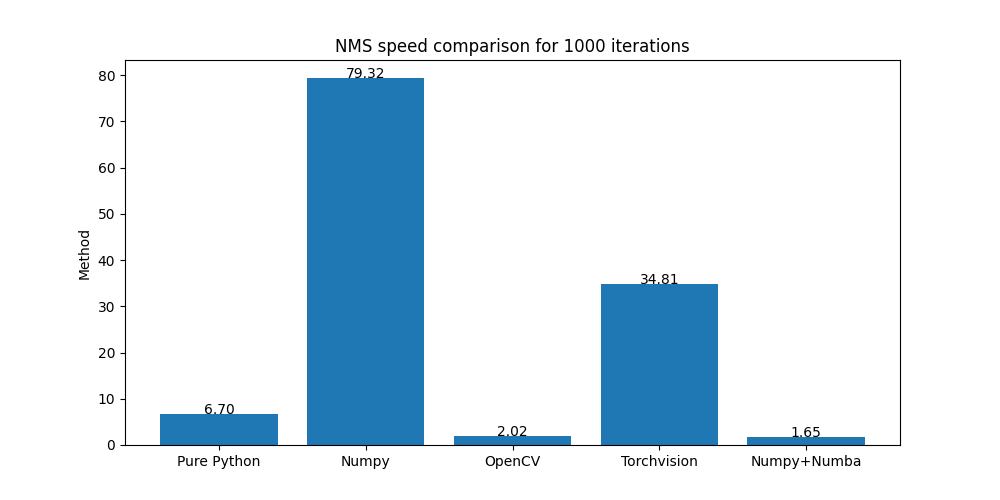
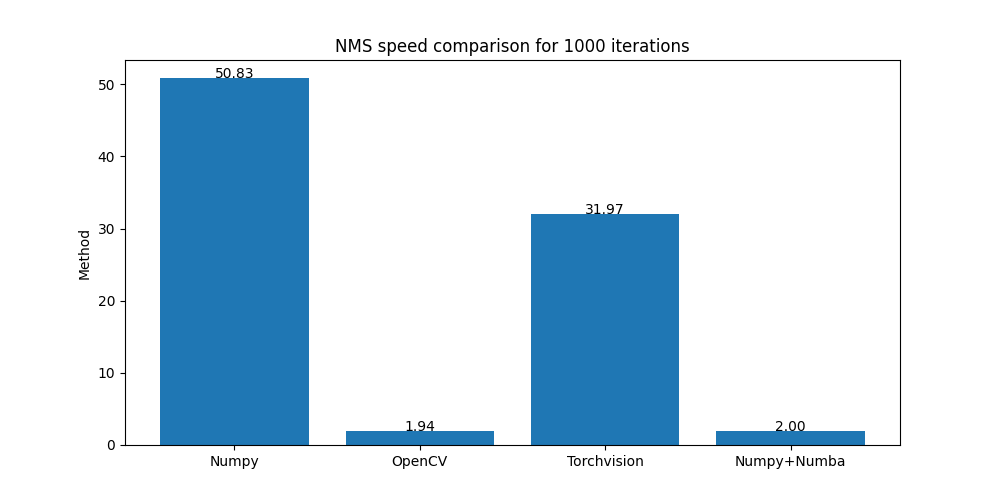
Add files via upload

diff --git a/NMS/nms_numpy.py b/NMS/nms_numpy.py
@@ -2,31 +2,35 @@ import time
 import numpy as np
 
 def nms(boxes, threshold):
-    if len(boxes) == 0:
-        return []
 
-    boxes = boxes[boxes[:, 4].argsort()[::-1]]
-    selected_boxes = []
+    keep = []
+    if boxes.shape[0] != 0:
+        x1 = boxes[:, 0]
+        y1 = boxes[:, 1]
+        x2 = x1 + boxes[:, 2]
+        y2 = y1 + boxes[:, 3]
+        scores = boxes[:, 4]
 
-    while len(boxes) > 0:
-        best_box = boxes[0]
-        selected_boxes.append(best_box)
+        areas = (x2 - x1 + 1) * (y2 - y1 + 1)
+        order = scores.argsort()[::-1]
 
-        x1 = np.maximum(best_box[0], boxes[1:, 0])
-        y1 = np.maximum(best_box[1], boxes[1:, 1])
-        x2 = np.minimum(best_box[2], boxes[1:, 2])
-        y2 = np.minimum(best_box[3], boxes[1:, 3])
+        while order.size > 0:
+            i = order[0]
+            keep.append(i)
+            xx1 = np.maximum(x1[i], x1[order[1:]])
+            yy1 = np.maximum(y1[i], y1[order[1:]])
+            xx2 = np.minimum(x2[i], x2[order[1:]])
+            yy2 = np.minimum(y2[i], y2[order[1:]])
 
-        intersection_area = np.maximum(0, x2 - x1 + 1) * np.maximum(0, y2 - y1 + 1)
-        area_box1 = (best_box[2] - best_box[0] + 1) * (best_box[3] - best_box[1] + 1)
-        area_box2 = (boxes[1:, 2] - boxes[1:, 0] + 1) * (boxes[1:, 3] - boxes[1:, 1] + 1)
-        union_area = area_box1 + area_box2 - intersection_area
-        iou = intersection_area / union_area
+            w = np.maximum(0.0, xx2 - xx1 + 1)
+            h = np.maximum(0.0, yy2 - yy1 + 1)
+            inter = w * h
+            ovr = inter / (areas[i] + areas[order[1:]] - inter)
 
-        filtered_boxes = boxes[1:][iou <= threshold]
-        boxes = filtered_boxes
+            inds = np.where(ovr <= threshold)[0]
+            order = order[inds + 1]
 
-    return np.array(selected_boxes)
+    return keep
 
 if __name__ == "__main__":
     iou_threshold = 0.5
@@ -43,8 +47,8 @@ if __name__ == "__main__":
     # [15, 15, 25, 25, 0.8]
     # [30, 30, 40, 40, 0.7]
     # [35, 35, 45, 45, 0.6]
-    # for box in selected_boxes:
-    #     print(box)
+    for box in selected_boxes:
+        print(box)
 
     # Test speed
     start = time.time()

diff --git a/NMS/analyze.py b/NMS/analyze.py
@@ -5,7 +5,6 @@ os.system("python nms_numpy.py")
 os.system("python nms_opencv.py")
 os.system("python nms_torch.py")
 os.system("python nms_numba.py")
-os.system("python nms_python.py")
 
 with open("nms_numpy.txt") as file:
     numpy_time = float(file.read())
@@ -19,11 +18,9 @@ with open("nms_torch.txt") as file:
 with open("nms_numba.txt") as file:
     numba_time = float(file.read())
 
-with open("nms_python.txt") as file:
-    python_time = float(file.read())
 plt.figure(figsize=(10, 5))
-plt.bar(["Pure Python", "Numpy", "OpenCV", "Torchvision", "Numpy+Numba"], [python_time, numpy_time, opencv_time, torch_time, numba_time])
-for i, v in enumerate([python_time, numpy_time, opencv_time, torch_time, numba_time]):
+plt.bar(["Numpy", "OpenCV", "Torchvision", "Numpy+Numba"], [numpy_time, opencv_time, torch_time, numba_time])
+for i, v in enumerate([numpy_time, opencv_time, torch_time, numba_time]):
     plt.text(i, v, f"{v:.2f}", ha="center")
 plt.ylabel("Time (ms)")
 plt.ylabel("Method")
@@ -34,6 +31,5 @@ os.remove("nms_numpy.txt")
 os.remove("nms_opencv.txt")
 os.remove("nms_torch.txt")
 os.remove("nms_numba.txt")
-os.remove("nms_python.txt")
 
 print('Results saved in "nms_speed_comparison.png')

diff --git a/NMS/nms_opencv.py b/NMS/nms_opencv.py
@@ -8,7 +8,6 @@ if __name__ == "__main__":
                       [15, 15, 25, 25, 0.8],
                       [30, 30, 40, 40, 0.7],
                       [35, 35, 45, 45, 0.6]])
-    
     selected_boxes = NMSBoxes(boxes[:, :4], boxes[:, 4], iou_threshold, 0.5)
 
     # Test
@@ -17,8 +16,8 @@ if __name__ == "__main__":
     # [15, 15, 25, 25, 0.8]
     # [30, 30, 40, 40, 0.7]
     # [35, 35, 45, 45, 0.6]
-    # for box in selected_boxes:
-    #     print(box)
+    for box in selected_boxes:
+        print(box)
 
     # Test speed
     start = time.time()

diff --git a/NMS/nms_numba.py b/NMS/nms_numba.py
@@ -49,8 +49,8 @@ if __name__ == "__main__":
     # [15, 15, 25, 25, 0.8]
     # [30, 30, 40, 40, 0.7]
     # [35, 35, 45, 45, 0.6]
-    # for box in selected_boxes:
-    #     print(box)
+    for box in selected_boxes:
+        print(box)
 
     # Test speed
     start = time.time()

diff --git a/NMS/nms_torch.py b/NMS/nms_torch.py
@@ -18,8 +18,8 @@ if __name__ == "__main__":
     # [15, 15, 25, 25, 0.8]
     # [30, 30, 40, 40, 0.7]
     # [35, 35, 45, 45, 0.6]
-    # for box in selected_boxes:
-    #     print(box)
+    for box in selected_boxes:
+        print(box)
 
     # Test speed
     start = time.time()

diff --git a/NMS/README.md b/NMS/README.md
@@ -1,3 +1,5 @@
 # NMS comparison
 
+Results are generated using Python 3.8.
+
 ![NMS comparison](nms_speed_comparison.png)
